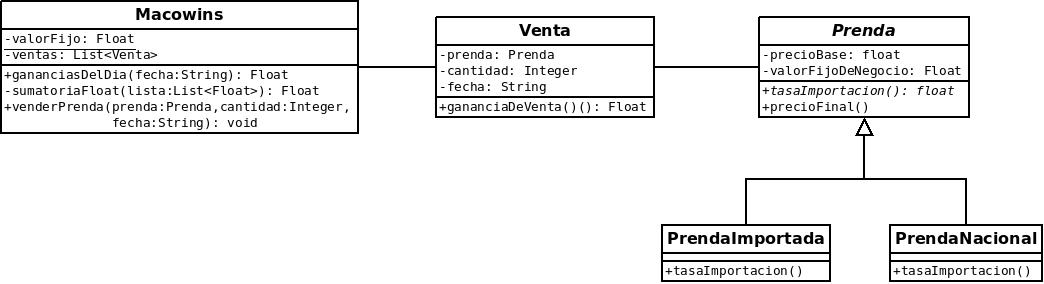
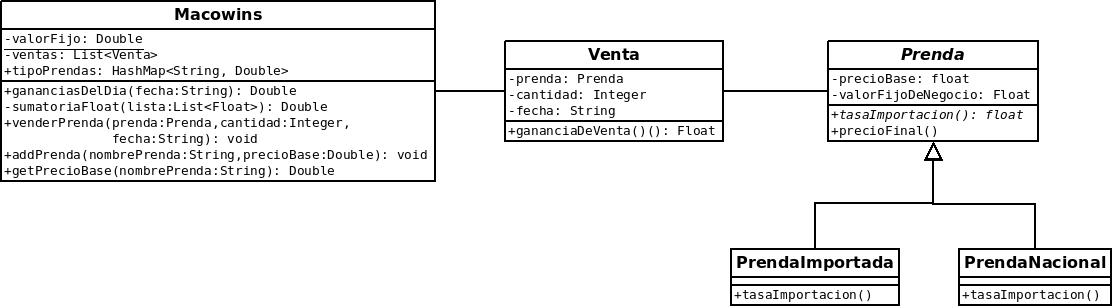
Implementado uso de diccionarios para tipos de prendas

Changed region(s): [[0.0, 0.0, 1.0, 1.0]]

diff --git a/proyecto_java/src/MacoWins.java b/proyecto_java/src/MacoWins.java
@@ -1,4 +1,5 @@
 import java.util.ArrayList;
+import java.util.HashMap;
 import java.util.List;
 import java.util.stream.Collectors;
 
@@ -6,14 +7,28 @@ public class MacoWins {
 	
 	private Double valorFijo;//valor determinado para todas las prendas
 	private List<Venta> ventas;//coleccion de ventas
+	private static HashMap<String, Double> tipoPrendas;
 	
 	public MacoWins(Double valorFijo){
 		this.valorFijo =valorFijo;
 		this.ventas = new ArrayList<Venta>();
+		MacoWins.tipoPrendas = new HashMap<String, Double>();
 	}
 	
 	public Double getValorFijo() {
 		return this.valorFijo;
+	}
+	
+	public static void addPrenda(String nombre, Double precioBase){
+		MacoWins.tipoPrendas.put(nombre, precioBase);
+	}
+	
+	public static void addPrenda(String nombre, Integer precioBase){
+		MacoWins.tipoPrendas.put(nombre, Double.valueOf(precioBase));
+	}
+	
+	public static Double getPrecioBase(String tipoPrenda){
+		return MacoWins.tipoPrendas.get(tipoPrenda);
 	}
 
 	public void vender(Prenda prenda, Integer cantidad, String fecha){

diff --git a/proyecto_java/src/MacoWinsTest.java b/proyecto_java/src/MacoWinsTest.java
@@ -7,11 +7,17 @@ public class MacoWinsTest {
 
 	@Before
 	public void init(){
+		//Seteo valorFijo
 		macowins = new MacoWins(100.0);
+		//Seteo en valorFijo a las prendas
 		Prenda.setValorFijoDeNegocio(macowins.getValorFijo());
-		Prenda saco = new PrendaImportada(300);
-		Prenda pantalon = new PrendaNacional(250);
-		Prenda camisa = new PrendaImportada(200);
+		//Seteo precioBase de prendas
+		MacoWins.addPrenda("saco", 300);
+		MacoWins.addPrenda("pantalon", 250);
+		MacoWins.addPrenda("camisa", 200);
+		Prenda saco = new PrendaImportada("saco");
+		Prenda pantalon = new PrendaNacional("pantalon");
+		Prenda camisa = new PrendaImportada("camisa");
 		macowins.vender(saco, 2, "21/03/2016");
 		macowins.vender(pantalon, 1, "21/03/2016");
 		macowins.vender(camisa, 4, "21/02/2016");

diff --git a/proyecto_java/src/Prenda.java b/proyecto_java/src/Prenda.java
@@ -4,12 +4,8 @@ public abstract class Prenda {
 	private Double precioBase;
 	private static Double valorFijoDeNegocio;
 	
-	public Prenda(Double precioBase) {
-		this.precioBase = precioBase;
-	}
-	
-	public Prenda(Integer precioBase) {
-		this.precioBase = precioBase.doubleValue();
+	public Prenda(String tipoPrenda) {
+		this.precioBase = MacoWins.getPrecioBase(tipoPrenda);
 	}
 	
 	public static void setValorFijoDeNegocio(Double valorFijoDeNegocio) {

diff --git a/proyecto_java/src/PrendaImportada.java b/proyecto_java/src/PrendaImportada.java
@@ -1,12 +1,8 @@
 
 public class PrendaImportada extends Prenda{
 
-	public PrendaImportada(Double precioBase) {
-		super(precioBase);
-	}
-	
-	public PrendaImportada(Integer precioBase) {
-		super(precioBase);
+	public PrendaImportada(String tipoPrenda) {
+		super(tipoPrenda);
 	}
 
 	public Double tasaImportacion() {

diff --git a/proyecto_java/src/PrendaNacional.java b/proyecto_java/src/PrendaNacional.java
@@ -1,12 +1,8 @@
 
 public class PrendaNacional extends Prenda{
 
-	public PrendaNacional(Double precioBase) {
-		super(precioBase);
-	}
-	
-	public PrendaNacional(Integer precioBase) {
-		super(precioBase);
+	public PrendaNacional(String tipoPrenda) {
+		super(tipoPrenda);
 	}
 
 	public Double tasaImportacion() {
